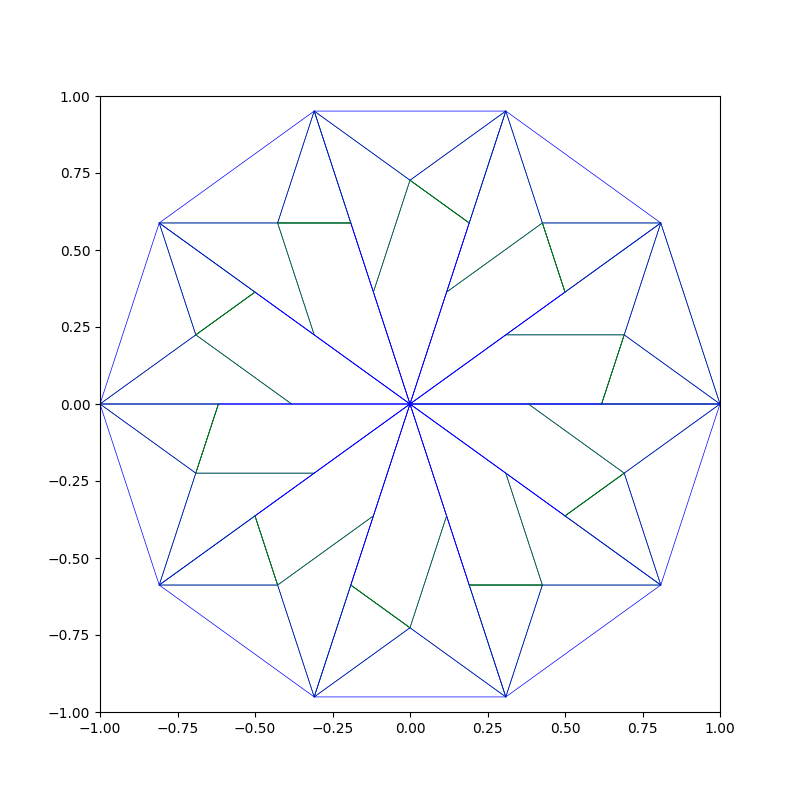
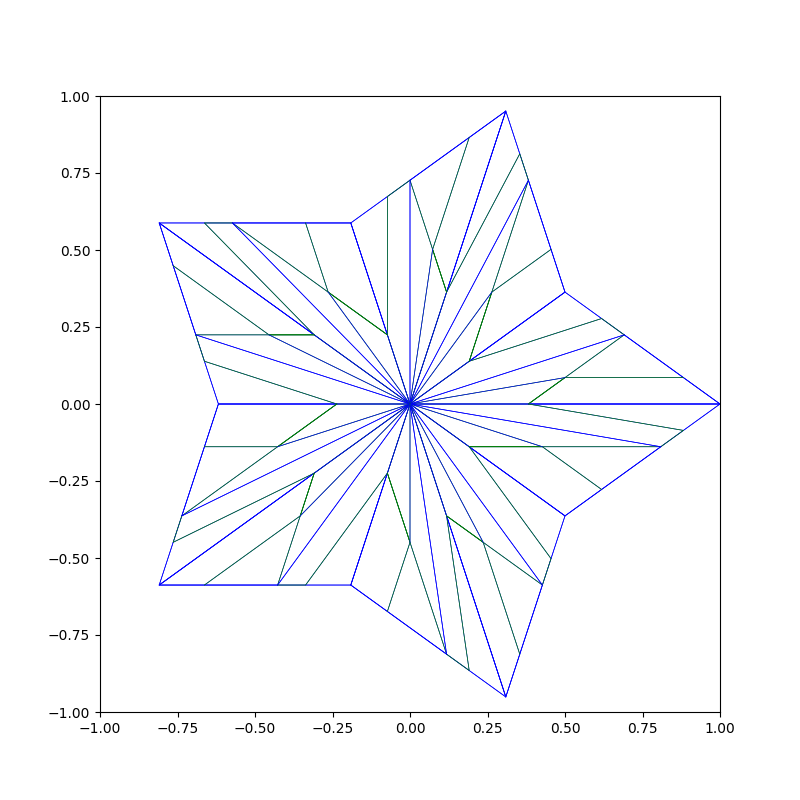
addes snu/star

diff --git a/PyPacking.py b/PyPacking.py
@@ -60,10 +60,6 @@ def triangle_subdivision(n):
         return sub_triangles
 
 
-    # sub_triangles = divide_tri(x_verts,y_verts)
-    # for triangle in sub_triangles:
-    #     x_verts,y_verts = triangle[0],triangle[1]
-    #     divide_tri(x_verts,y_verts)
 
 
     def n_div(x_verts,y_verts, n):
@@ -134,7 +130,7 @@ def pack(num_of_sides):
 
 ######################################################
 
-def Penrose_Tiling(n):
+def Penrose_Tiling(n,pattern_name):
     """
     """
 
@@ -187,11 +183,24 @@ def Penrose_Tiling(n):
         return sub_triangles
 
     start_triangles = []
-    for i in range(0,10):
-        start_triangles.append(['green',[0,np.cos(i*np.pi/5),np.cos((i+1)*np.pi/5)],[0,np.sin(i*np.pi/5),np.sin((i+1)*np.pi/5)]])
+
+    if pattern_name == 'sun':
+        for i in range(0,10):
+            start_triangles.append(['green',[0,np.cos(i*np.pi/5),np.cos((i+1)*np.pi/5)],[0,np.sin(i*np.pi/5),np.sin((i+1)*np.pi/5)]])
+            plt.plot(start_triangles[i][1],start_triangles[i][2],linewidth=0.5,c=start_triangles[i][0])
+
+    if pattern_name == 'star':
+       for i in range(0,10):
+            if i % 2 == 0:
+                r = 0.5/np.cos(np.pi/5)
+                start_triangles.append(['blue',[0,np.cos(i*np.pi/5),r*np.cos((i+1)*np.pi/5)],[0,np.sin(i*np.pi/5),r*np.sin((i+1)*np.pi/5)]])
+
+            if i % 2 != 0:
+                r = 0.5/np.cos(np.pi/5)
+                start_triangles.append(['blue',[0,r*np.cos(i*np.pi/5),np.cos((i+1)*np.pi/5)],[0,r*np.sin(i*np.pi/5),np.sin((i+1)*np.pi/5)]])
 
 
-    plt.plot(start_triangles[0][1],start_triangles[0][2],linewidth=0.5,c=start_triangles[0][0])
+            plt.plot(start_triangles[i][1],start_triangles[i][2],linewidth=0.5,c=start_triangles[i][0])
 
     # sub_triangles = subdivide([start_triangle])
     # print(sub_triangles)
@@ -212,4 +221,5 @@ def Penrose_Tiling(n):
 
 #pack(5)
 #triangle_subdivision(3)
-#Penrose_Tiling(3)
+# Penrose_Tiling(0,'star')
+# plt.show()

diff --git a/PyAnimate.py b/PyAnimate.py
@@ -426,14 +426,40 @@ def make_all_packing_gifs():
     imageio.mimsave('Images/{}.gif'.format(name), images)
     print('{}.gif made'.format(name))
 
-    # penrose gif
+    # penrose sun gif
     delete_all_frames()
-    name = 'penrose_tiling'
+    name = 'penrose_tiling_sun'
     n=7
     for i in range(0,n):
         fig = plt.figure(0,figsize=[8,8])
         fig.clear()
-        Penrose_Tiling(i)
+        Penrose_Tiling(i,'sun')
+
+        if i <= 8:
+            i = '0'+str(i+1)
+        else:
+            i = str(i+1)
+
+        filename = 'Images/frames/{}_{}'.format(i,n)
+        plt.savefig(filename)
+        print('Frame ({}/{}) Saved.'.format(i,n))
+
+    # convert all saved images to a single gif
+    import imageio
+    images = []
+    for filename in os.listdir('Images/frames/'):
+        images.append(imageio.imread('Images/frames/'+filename))
+    imageio.mimsave('Images/{}.gif'.format(name), images)
+    print('{}.gif made'.format(name))
+
+    # penrose star gif
+    delete_all_frames()
+    name = 'penrose_tiling_star'
+    n=7
+    for i in range(0,n):
+        fig = plt.figure(0,figsize=[8,8])
+        fig.clear()
+        Penrose_Tiling(i,'star')
 
         if i <= 8:
             i = '0'+str(i+1)

diff --git a/docs/packings.md b/docs/packings.md
@@ -9,5 +9,6 @@
 ## Penrose Tiling
 
 <p float="left">
-  <img src="../Images/penrose_tiling.gif" width="400" />
+  <img src="../Images/penrose_tiling_sun.gif" width="400" />
+  <img src="../Images/penrose_tiling_star.gif" width="400" />
 </p>
